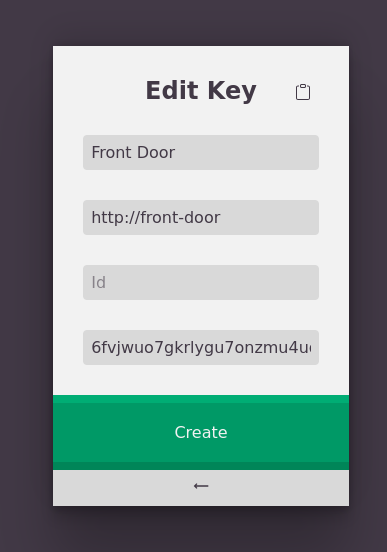
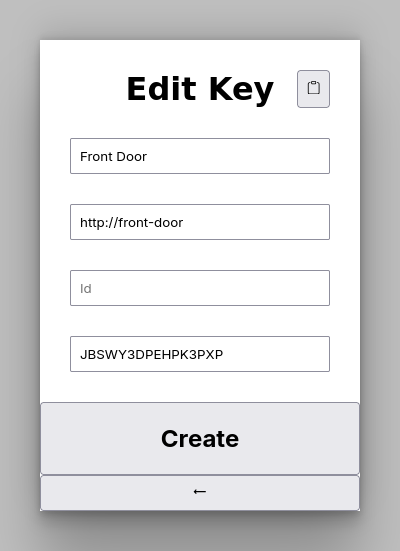
Simplify style

diff --git a/base.css b/base.css
@@ -1,127 +1,120 @@
-:root {
-    --light-color: hsl(0, 0%, 95%);
-    --dark-color: hsl(280, 10%, 25%);
-
-    --background-color: var(--light-color);
-    --foreground-color: var(--dark-color);
-
-    --input-color: hsl(0, 0%, 85%);
-    --input-color-lighter: hsl(0, 0%, 100%);
-    --input-color-darker: hsl(0, 0%, 70%);
-
-    --accent-color: hsl(160, 100%, 30%);
-    --accent-color-lighter: hsl(160, 100%, 34%);
-    --accent-color-darker: hsl(160, 100%, 26%);
-    --accent-foreground-color: var(--light-color);
-
-    --success-color: var(--accent-color);
-    --success-color-lighter: var(--accent-color-lighter);
-    --success-color-darker: var(--accent-color-darker);
-    --success-foreground-color: var(--accent-foreground-color);
-
-    --warn-color: hsl(45, 100%, 40%);
-    --warn-color-lighter: hsl(45, 100%, 44%);
-    --warn-color-darker: hsl(45, 100%, 36%);
-    --warn-foreground-color: var(--light-color);
-
-    --error-color: hsl(0, 100%, 30%);
-    --error-color-lighter: hsl(0, 100%, 34%);
-    --error-color-darker: hsl(0, 100%, 26%);
-    --error-foreground-color: var(--light-color);
-
-    --highlight-color: hsl(160, 100%, 40%);
-}
-
 * {
-    padding: 0;
-    margin: 0;
+    box-sizing: border-box;
 }
 
-html, input, button {
+:root {
+    color-scheme: light dark;
     font-family: sans-serif;
-    color: var(--foreground-color);
-}
-
-html {
-    background: var(--dark-color);
+    overflow-wrap: anywhere;
     height: 100%;
+    --status-color: none;
+}
+:root[data-status="success"] {
+    --status-color: Green;
+}
+:root[data-status="warn"] {
+    --status-color: Orange;
+}
+:root[data-status="error"] {
+    --status-color: OrangeRed;
 }
 
 body {
     min-height: 100%;
     display: flex;
-    align-items: center;
-    justify-content: center;
+    flex-direction: column;
+    padding: 8px;
+    margin: 0;
 }
 
-section {
-    background: var(--background-color);
-    box-shadow: rgba(0, 0, 0, 25%) 0px 54px 55px, rgba(0, 0, 0, 12%) 0px -12px 30px, rgba(0, 0, 0, 12%) 0px 4px 6px, rgba(0, 0, 0, 17%) 0px 12px 13px, rgba(0, 0, 0, 9%) 0px -3px 5px;
-    max-width: 20rem;
-    min-width: 15rem;
+section::before {
+    content: "";
+    display: block;
+    position: absolute;
+    inset: -8px;
+    height: 30px;
+    background: var(--status-color);
 }
 
 input, button {
-    font-size: 1em;
-    border: none;
-    text-decoration: none;
     display: block;
-    background: var(--input-color);
-    outline: none;
-    box-sizing: border-box;
-    position: relative;
-}
-
-input:focus-visible, button:focus-visible, input[type="submit"]:active, button:active {
-    box-shadow: 0px 0px 2px 2px var(--highlight-color);
-    z-index: 1;
-}
-
-input[type="text"], input[type="url"], input[type="number"], input[type="password"] {
     padding: 8px;
-    border-radius: 4px;
-}
-
-input[type="text"]:focus-visible, input[type="url"]:focus-visible, input[type="number"]:focus-visible, input[type="password"]:focus-visible {
-    box-shadow: inset 0px 0px 2px 2px var(--highlight-color);
-}
-
-input[type="submit"], input[type="reset"], button {
-    padding: 8px;
-    text-align: center;
-    cursor: pointer;
-}
-
-input[type="submit"].default, input[type="reset"].default, button.default {
-    padding-top: 20px;
-    padding-bottom: 20px;
-    color: var(--accent-foreground-color);
-    background: var(--accent-color);
-    border-top: 8px solid var(--accent-color-lighter);
-    border-bottom: 8px solid var(--accent-color-darker);
-}
-
-h1 {
-    margin: 30px;
-    text-align: center;
-    font-size: 1.5em;
-}
-
-form > input {
-    margin: 30px;
-    width: calc(100% - 2 * 30px);
-}
-
-form > input[type="submit"], form > input[type="reset"], form > button {
-    margin: 0;
     width: 100%;
 }
 
-.big {
-    font-size: 1.2em;
+input[type="submit"], input[type="reset"], button {
+    cursor: pointer;
+    text-align: center;
+}
+
+h1, p {
+    text-align: center;
+}
+
+h1 {
+    font-size: 2em;
     font-weight: bold;
 }
 
-.flex-1 {
+h1, p, form > input:not([type="submit"], [type="reset"]) {
+    margin: 30px 0;
+}
+
+.big {
+    padding-top: 20px;
+    padding-bottom: 20px;
+    font-size: 1.5em;
+    font-weight: bold;
+}
+
+.buttons {
+    display: flex;
+}
+
+.buttons > * {
+    width: auto;
+}
+
+.buttons > .big {
     flex: 1;
+}
+
+@media (min-width: 17rem) {
+
+    body {
+        background: var(--status-color);
+        position: relative;
+    }
+
+    body::after {
+        content: "";
+        display: block;
+        position: absolute;
+        inset: 0;
+        z-index: -1;
+        background: rgba(0, 0, 0, 25%);
+    }
+
+    section {
+        background: Canvas;
+        position: relative;
+        box-shadow: rgba(0, 0, 0, 25%) 0px 54px 55px, rgba(0, 0, 0, 12%) 0px -12px 30px, rgba(0, 0, 0, 12%) 0px 4px 6px, rgba(0, 0, 0, 17%) 0px 12px 13px, rgba(0, 0, 0, 9%) 0px -3px 5px;
+        width: 20rem;
+        max-width: 100%;
+        margin: auto;
+    }
+
+    section::before {
+        inset: 0;
+        height: 22px;
+    }
+
+    h1, p, form > input:not([type="submit"], [type="reset"]) {
+        margin: 30px;
+    }
+
+    form > input:not([type="submit"], [type="reset"]) {
+        width: calc(100% - 2 * 30px);
+    }
+
 }

diff --git a/manager-pwa/index.html b/manager-pwa/index.html
@@ -18,7 +18,7 @@
     <h1>Keys</h1>
     <template>
         <div class="buttons">
-            <button data-name="key" class="flex-1 big" style="padding-left: calc( 3 * 8px + 1rem )"></button>
+            <button data-name="key" class="big"></button>
             <button title="Edit" data-name="edit">
                 <svg xmlns="http://www.w3.org/2000/svg" width="1em" height="1em" fill="currentColor" class="bi bi-pencil" viewBox="0 0 16 16">
                     <path d="M12.146.146a.5.5 0 0 1 .708 0l3 3a.5.5 0 0 1 0 .708l-10 10a.5.5 0 0 1-.168.11l-5 2a.5.5 0 0 1-.65-.65l2-5a.5.5 0 0 1 .11-.168l10-10zM11.207 2.5 13.5 4.793 14.793 3.5 12.5 1.207 11.207 2.5zm1.586 3L10.5 3.207 4 9.707V10h.5a.5.5 0 0 1 .5.5v.5h.5a.5.5 0 0 1 .5.5v.5h.293l6.5-6.5zm-9.761 5.175-.106.106-1.528 3.821 3.821-1.528.106-.106A.5.5 0 0 1 5 12.5V12h-.5a.5.5 0 0 1-.5-.5V11h-.5a.5.5 0 0 1-.468-.325z"/>
@@ -53,9 +53,9 @@
         <input name="secret" type="text" pattern="([a-zA-Z2-7]{8})*([a-zA-Z2-7]{2}={6}|[a-zA-Z2-7]{4}={4}|[a-zA-Z2-7]{5}={3}|[a-zA-Z2-7]{7}={1})?" placeholder="Secret" required>
         <input name="uuid" type="hidden">
         <div class="buttons">
-            <input data-name="create" type="submit" class="default flex-1" value="Create">
-            <input data-name="update" type="submit" class="default flex-1" value="Update">
-            <button title="Delete" type="button" data-name="delete" class="default">
+            <input data-name="create" type="submit" value="Create" class="big">
+            <input data-name="update" type="submit" value="Update" class="big">
+            <button title="Delete" type="button" data-name="delete">
                 <svg xmlns="http://www.w3.org/2000/svg" width="1em" height="1em" fill="currentColor" class="bi bi-trash" viewBox="0 0 16 16">
                     <path d="M5.5 5.5A.5.5 0 0 1 6 6v6a.5.5 0 0 1-1 0V6a.5.5 0 0 1 .5-.5Zm2.5 0a.5.5 0 0 1 .5.5v6a.5.5 0 0 1-1 0V6a.5.5 0 0 1 .5-.5Zm3 .5a.5.5 0 0 0-1 0v6a.5.5 0 0 0 1 0V6Z"/>
                     <path d="M14.5 3a1 1 0 0 1-1 1H13v9a2 2 0 0 1-2 2H5a2 2 0 0 1-2-2V4h-.5a1 1 0 0 1-1-1V2a1 1 0 0 1 1-1H6a1 1 0 0 1 1-1h2a1 1 0 0 1 1 1h3.5a1 1 0 0 1 1 1v1ZM4.118 4 4 4.059V13a1 1 0 0 0 1 1h6a1 1 0 0 0 1-1V4.059L11.882 4H4.118ZM2.5 3h11V2h-11v1Z"/>

diff --git a/manager-pwa/page-edit-key.css b/manager-pwa/page-edit-key.css
@@ -6,32 +6,29 @@
     display: block;
 }
 
-#edit-key .buttons {
-    display: flex;
-}
-
 #edit-key header {
     position: relative;
 }
 
 #edit-key header .buttons {
     position: absolute;
-    right: 30px;
+    right: 0;
     top: 0;
     bottom: 0;
 }
 
-#edit-key header button {
-    background: none;
+#edit-key header h1 {
+    padding: 0 35px;
 }
 
-#edit-key button[data-name="delete"] {
-    color: var(--error-foreground-color);
-    background: var(--error-color);
-    border-top-color: var(--error-color-lighter);
-    border-bottom-color: var(--error-color-darker);
-}
-
-#edit-key input[data-name=update] {
+#edit-key *[data-name="update"] {
     padding-left: 40px;
+}
+
+@media (min-width: 17rem) {
+
+    #edit-key header .buttons {
+        right: 30px;
+    }
+
 }

diff --git a/manager-pwa/page-keys.css b/manager-pwa/page-keys.css
@@ -6,24 +6,10 @@
     display: block;
 }
 
-#keys button {
-    padding-top: 20px;
-    padding-bottom: 20px;
-}
-
 #keys .buttons {
-    display: flex;
     margin: 8px 0;
 }
 
-#keys .buttons > *:not(:first-child) {
-    border-left: 1px solid var(--input-color-darker);
-}
-
-#keys button[data-name="key"] {
-    overflow-wrap: anywhere;
-}
-
-#keys button[data-name="new"] {
-    width: 100%;
+#keys *[data-name="key"] {
+    padding-left: 40px;
 }

diff --git a/manager-pwa/sw.js b/manager-pwa/sw.js
@@ -1,5 +1,5 @@
 // Files to cache
-var cacheName = "doorlock3";
+var cacheName = "doorlock4";
 var contentToCache = [
   ".",
   "base.css",

diff --git a/main.py b/main.py
@@ -130,9 +130,12 @@ def q(s):
     )
 
 
-async def html_header_stream():
+async def html_header_stream(status_level=None):
     yield "<!DOCTYPE html>"
-    yield '<html lang="en">'
+    yield '<html lang="en"'
+    if status_level:
+        yield f' data-status="{status_level}"'
+    yield '>'
     yield '<meta charset="utf-8">'
     yield "<title>"
     if config.TITLE:
@@ -140,7 +143,6 @@ async def html_header_stream():
     yield "Door Lock</title>"
     yield '<meta content="width=device-width, initial-scale=1"'
     yield ' name="viewport">'
-    yield '<meta name="theme-color" content="#009966">'
     yield '<link href="/icon.png" type="image/png" rel="shortcut icon">'
     yield '<link rel="stylesheet" href="/base.css">'
 
@@ -165,7 +167,7 @@ def index(request):
         yield f' maxlength="{config.TOTP_DIGITS:d}"'
         yield f' pattern="\\d{{{config.TOTP_DIGITS:d}}}"'
         yield f' value="{q(password)}" placeholder="Password" required>'
-        yield '<input class="default" type="submit" value="Open">'
+        yield '<input class="big" type="submit" value="Open">'
         yield "</form>"
         yield "</section>"
 
@@ -212,24 +214,17 @@ def status(request, status, status_text):
 
     async def stream():
         if 200 <= status and status < 300:
-            level = "success"
+            status_level = "success"
         elif status == 429 or status == 503:
-            level = "warn"
+            status_level = "warn"
         else:
-            level = "error"
-        yield from html_header_stream()
+            status_level = "error"
+        yield from html_header_stream(status_level)
         yield "<noscript><style>button{display:none;}</style></noscript>"
-        yield '<section style="'
-        yield f"background:var(--{level}-color);"
-        yield f"color:var(--{level}-foreground-color);"
-        yield '">'
+        yield "<section>"
         yield f"<h1>{q(config.TITLE)}</h1>"
-        yield f'<p style="margin:30px;text-align:center;">{q(status_text)}</p>'
-        yield '<button title="Back" onclick="history.back()" style="'
-        yield "width:100%;"
-        yield f"background:var(--{level}-color-darker);"
-        yield f"color:var(--{level}-foreground-color);"
-        yield '">'
+        yield f'<p>{q(status_text)}</p>'
+        yield '<button title="Back" onclick="history.back()">'
         yield '<svg width="1em" height="1em" viewBox="0 0 24 24" fill="none"'
         yield ' xmlns="http://www.w3.org/2000/svg">'
         yield '<path fill="currentColor" d="M1.02698 11.9929L5.26242 16.2426'
